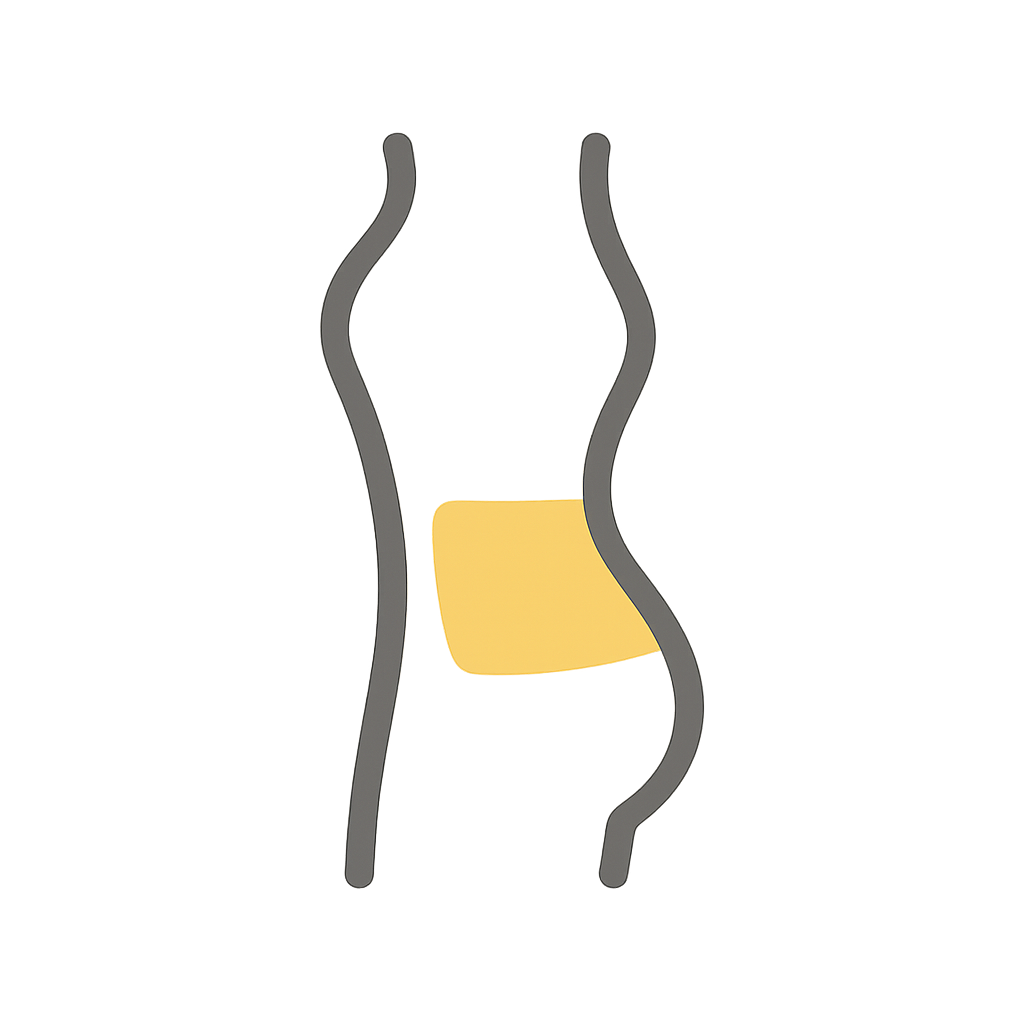
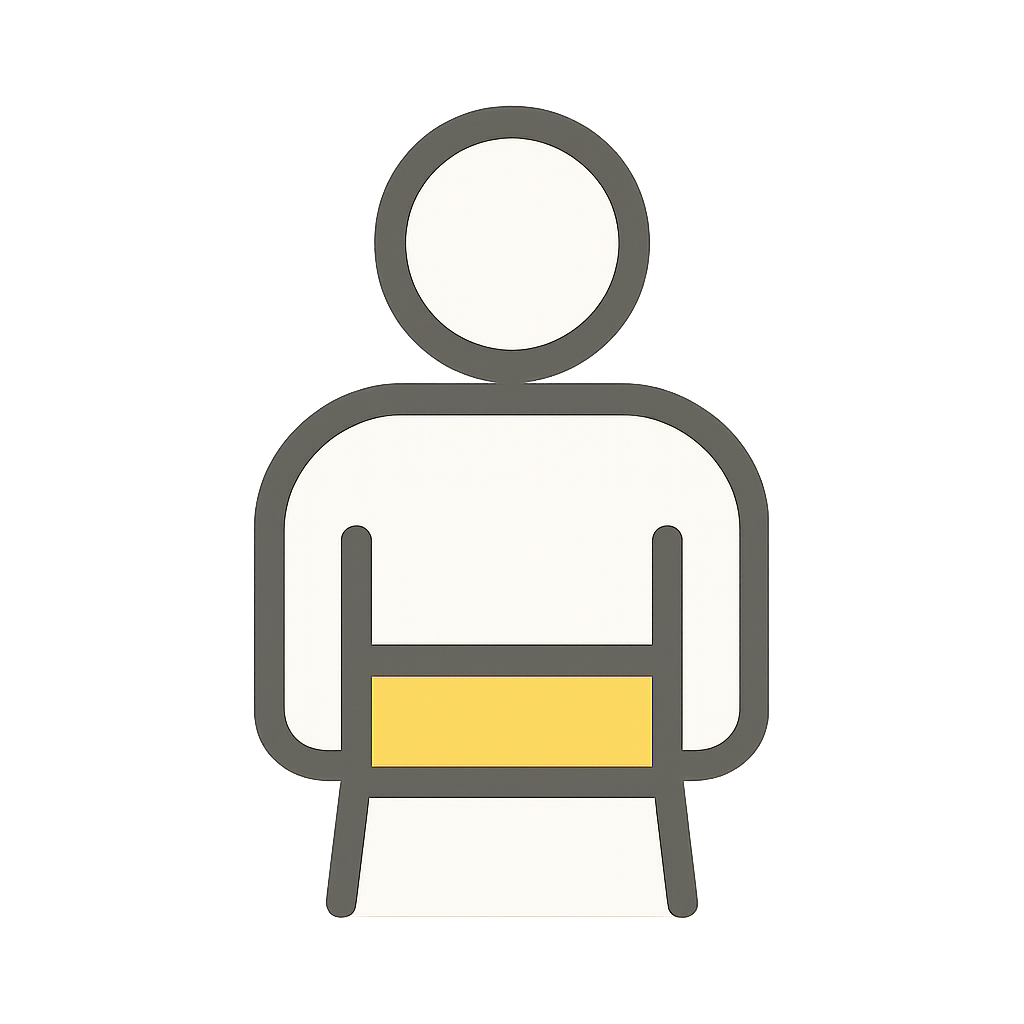
auto-sync 2026-07-30 13:25

Changed region(s): [[0.25, 0.0938, 0.75, 0.9062]]

diff --git a/ios-native/KyouNoOgatore/KyouNoOgatore/HomeView.swift b/ios-native/KyouNoOgatore/KyouNoOgatore/HomeView.swift
@@ -713,6 +713,17 @@ struct HomeView: View {
                             KyonoLineButton("とじる", action: closeCardAndMaybeStartTour)
                         }
                     }
+                    // TASK-C2-2026-07-30-completion-moment-redesign.md 骨子3: 特別tier(記念日・
+                    // 季節・レア)だけ、既存の節目ポップインカーブ(:505-510と同じ
+                    // .timingCurve(0.34, 1.56, 0.64, 1, duration: 0.5))を軽く流用して「性格の違い」
+                    // 程度の入場差を付ける。ノーマルは.identity(親のKyonoCardModalOverlayが持つ
+                    // .transition(.opacity)フェードのみ・大当たり感を出さない)。
+                    .transition(
+                        cardResult.isSpecialTier
+                            ? .scale(scale: 0.85).combined(with: .opacity)
+                                .animation(.timingCurve(0.34, 1.56, 0.64, 1, duration: 0.5))
+                            : .identity
+                    )
                 }
             }
         }
@@ -977,6 +988,11 @@ private struct HomeSoudanChip: View {
 struct TodayCardResult {
     let image: UIImage
     let isMilestone: Bool
+    // TASK-C2-2026-07-30-completion-moment-redesign.md 骨子3: tier(記念日・季節・レア)は
+    // 「性格の違い」程度の入場差だけを持たせる対象。isMilestone(節目=記念日の一種)に加え、
+    // CardLottery.cardPatternForが返すtier("toku"=記念日固有絵/"season"/"rare")も特別tierとする。
+    // "normal"(ローテーション抽選のノーマル枠)は対象外。
+    let isSpecialTier: Bool
 }
 
 // index.html:136-140 drawCardのテーマ選択(記念>季節>抽選の解決結果patから実際に描画するテーマへの
@@ -1023,7 +1039,8 @@ func renderTodayCard(store: RecordStore, streak: RecordLogic.StreakData, ds: Str
         pat: pat, typeName: typeName, typeIconKey: typeIconKey, memoText: memos[ds], streakCount: streak.count
     )
     guard let image = UIImage(data: png) else { return nil }
-    return TodayCardResult(image: image, isMilestone: milestone)
+    let specialTier = milestone || pat?.tier == "toku" || pat?.tier == "season" || pat?.tier == "rare"
+    return TodayCardResult(image: image, isMilestone: milestone, isSpecialTier: specialTier)
 }
 
 #Preview {

diff --git a/android-native/KyouNoOgatore/app/src/main/java/jp/ogatore/kyouno/MainActivity.kt b/android-native/KyouNoOgatore/app/src/main/java/jp/ogatore/kyouno/MainActivity.kt
@@ -2383,7 +2383,9 @@ fun openCalendarIntent(context: Context, hour: Int = 20, minute: Int = 0): Boole
 
 // TASK-C2-2026-07-27-milestone-card-export-nudge.md: 記録カードモーダルの節目促し表示可否を
 // 呼び出し元(HomeScreen)が判定できるよう、描画結果と一緒にmilestone判定も返す。
-data class TodayCardResult(val bitmap: android.graphics.Bitmap, val isMilestone: Boolean)
+// TASK-C2-2026-07-30-completion-moment-redesign.md 骨子3: isSpecialTierはtier(記念日・季節・レア)
+// だけ「性格の違い」程度の入場差を付けるためのフラグ(iOS版TodayCardResultと同じ考え方)。
+data class TodayCardResult(val bitmap: android.graphics.Bitmap, val isMilestone: Boolean, val isSpecialTier: Boolean)
 
 // index.html:136-140 drawCardのテーマ選択(記念>季節>抽選の解決結果 pat から実際に描画するテーマへの
 // 変換)をここで組み立てる。判定そのもの(cardPatternFor)はCardLotteryの純粋関数を呼ぶだけ。
@@ -2419,5 +2421,6 @@ private fun renderTodayCard(store: RecordStore, streak: RecordLogic.StreakData, 
         context = context, pat = pat, typeName = typeName, typeIconKey = typeIconKey,
         memoText = memoText, streakCount = streak.count,
     )
-    return TodayCardResult(bitmap, milestone)
+    val specialTier = milestone || pat?.tier == "toku" || pat?.tier == "season" || pat?.tier == "rare"
+    return TodayCardResult(bitmap, milestone, specialTier)
 }

diff --git a/ios-native/KyouNoOgatore/KyouNoOgatoreUITests/SearchViewUITests.swift b/ios-native/KyouNoOgatore/KyouNoOgatoreUITests/SearchViewUITests.swift
@@ -19,6 +19,22 @@ final class SearchViewUITests: XCTestCase {
         continueAfterFailure = false
     }
 
+    // DO-NOT-COMMIT/TEMP-TEST: TASK-C2-2026-07-30-icon-system-addendum-chips.mdのサンプル1枚
+    // (「腰」v2・幾何学寄り修正版)を実画面に置いて確認するための一時検証。確認後に削除する。
+    func testTempWorryChipSampleV2() throws {
+        let app = XCUIApplication()
+        app.launch()
+        let big = app.staticTexts["大きめ（いまのまま）"].firstMatch
+        XCTAssertTrue(big.waitForExistence(timeout: 10))
+        big.tap()
+        let hard = app.staticTexts["ガチガチかも"].firstMatch
+        XCTAssertTrue(hard.waitForExistence(timeout: 5))
+        hard.tap()
+        let koshi = app.staticTexts["腰"].firstMatch
+        XCTAssertTrue(koshi.waitForExistence(timeout: 5))
+        Thread.sleep(forTimeInterval: 1.0)
+    }
+
     func testSearchResultsRenderMultipleRowsAndMoreButton() throws {
         let app = XCUIApplication()
         app.launch()

diff --git a/scripts/gen-chip-art.py b/scripts/gen-chip-art.py
@@ -22,12 +22,17 @@ OUT_DIR = os.path.expanduser("~/Claude/kyou-no-ogatore/.art-staging")
 
 # タブバー5つの実物(太めの丸みストローク・フラットな幾何形・単色寄り+選択中だけ塗り)を
 # そのままトーンの正本として説明する。gen-type-art.pyのSTYLE節と同じ考え方。
+# alan5差し戻し(2026-07-30): 1回目は輪郭が細い波線・塗りが有機的なブロブでタブバーと質感が
+# 揃わなかった。線の太さを均一にし、幾何学図形(角丸長方形・円)だけで構成するよう明示的に指定する。
 STYLE = (
-    "A simple flat minimalist line icon in exactly the same visual style as the tab bar icons "
-    "shown in IMAGE 1: thick rounded stroke outlines, flat minimal geometric shapes, friendly "
-    "and simple (not medical or anatomical, not a 3D toy or plush character), a single soft "
-    "accent color fill, fully transparent background, no cast shadow, no ground, no text, "
-    "no watermark, single icon, centred, generous empty margin on all four sides."
+    "A minimalist icon using ONLY simple flat geometric shapes — rounded rectangles and circles, "
+    "like a pictogram — in exactly the same visual style as the tab bar icons shown in IMAGE 1: "
+    "a UNIFORM thick stroke width identical throughout (never thin, never tapering, never wavy or "
+    "organic freehand contour lines), rounded corners, a single flat accent color fill on one part "
+    "(matching IMAGE 1's single-color-fill convention, e.g. its solid yellow house icon), no "
+    "gradients, no soft blob shapes, no 3D toy or plush character, not medical or anatomical, "
+    "fully transparent background, no cast shadow, no ground, no text, no watermark, single icon, "
+    "centred, generous empty margin on all four sides."
 )
 
 # 部位・時間帯の対象4箇所(worry/anchorチップ)。ラベルはOnboardingViews.swift/.ktの定義と一致。
@@ -39,7 +44,12 @@ SUBJECTS = {
 
 WHAT = {
     "kata": "a simple icon of shoulder and neck stiffness — a person's shoulders and neck with small tension lines",
-    "koshi": "a simple icon of a lower back / waist area — a person's torso seen from the side with the lower back highlighted",
+    "koshi": (
+        "a simple geometric pictogram of a person's lower back: build the figure out of a small "
+        "circle for the head and one tall rounded rectangle for the torso (same construction as "
+        "IMAGE 1's simple shapes), with a horizontal rounded-rectangle band across the lower third "
+        "of the torso filled in the single accent color to mark the lower-back/waist area"
+    ),
     "zenkutsu": "a simple icon of a person bending forward reaching toward their toes but stopping short",
     "nemuri": "a simple icon of a crescent moon with a small sleeping zzz",
     "toku": "a simple icon of a small calm checkmark or dot (nothing in particular)",
